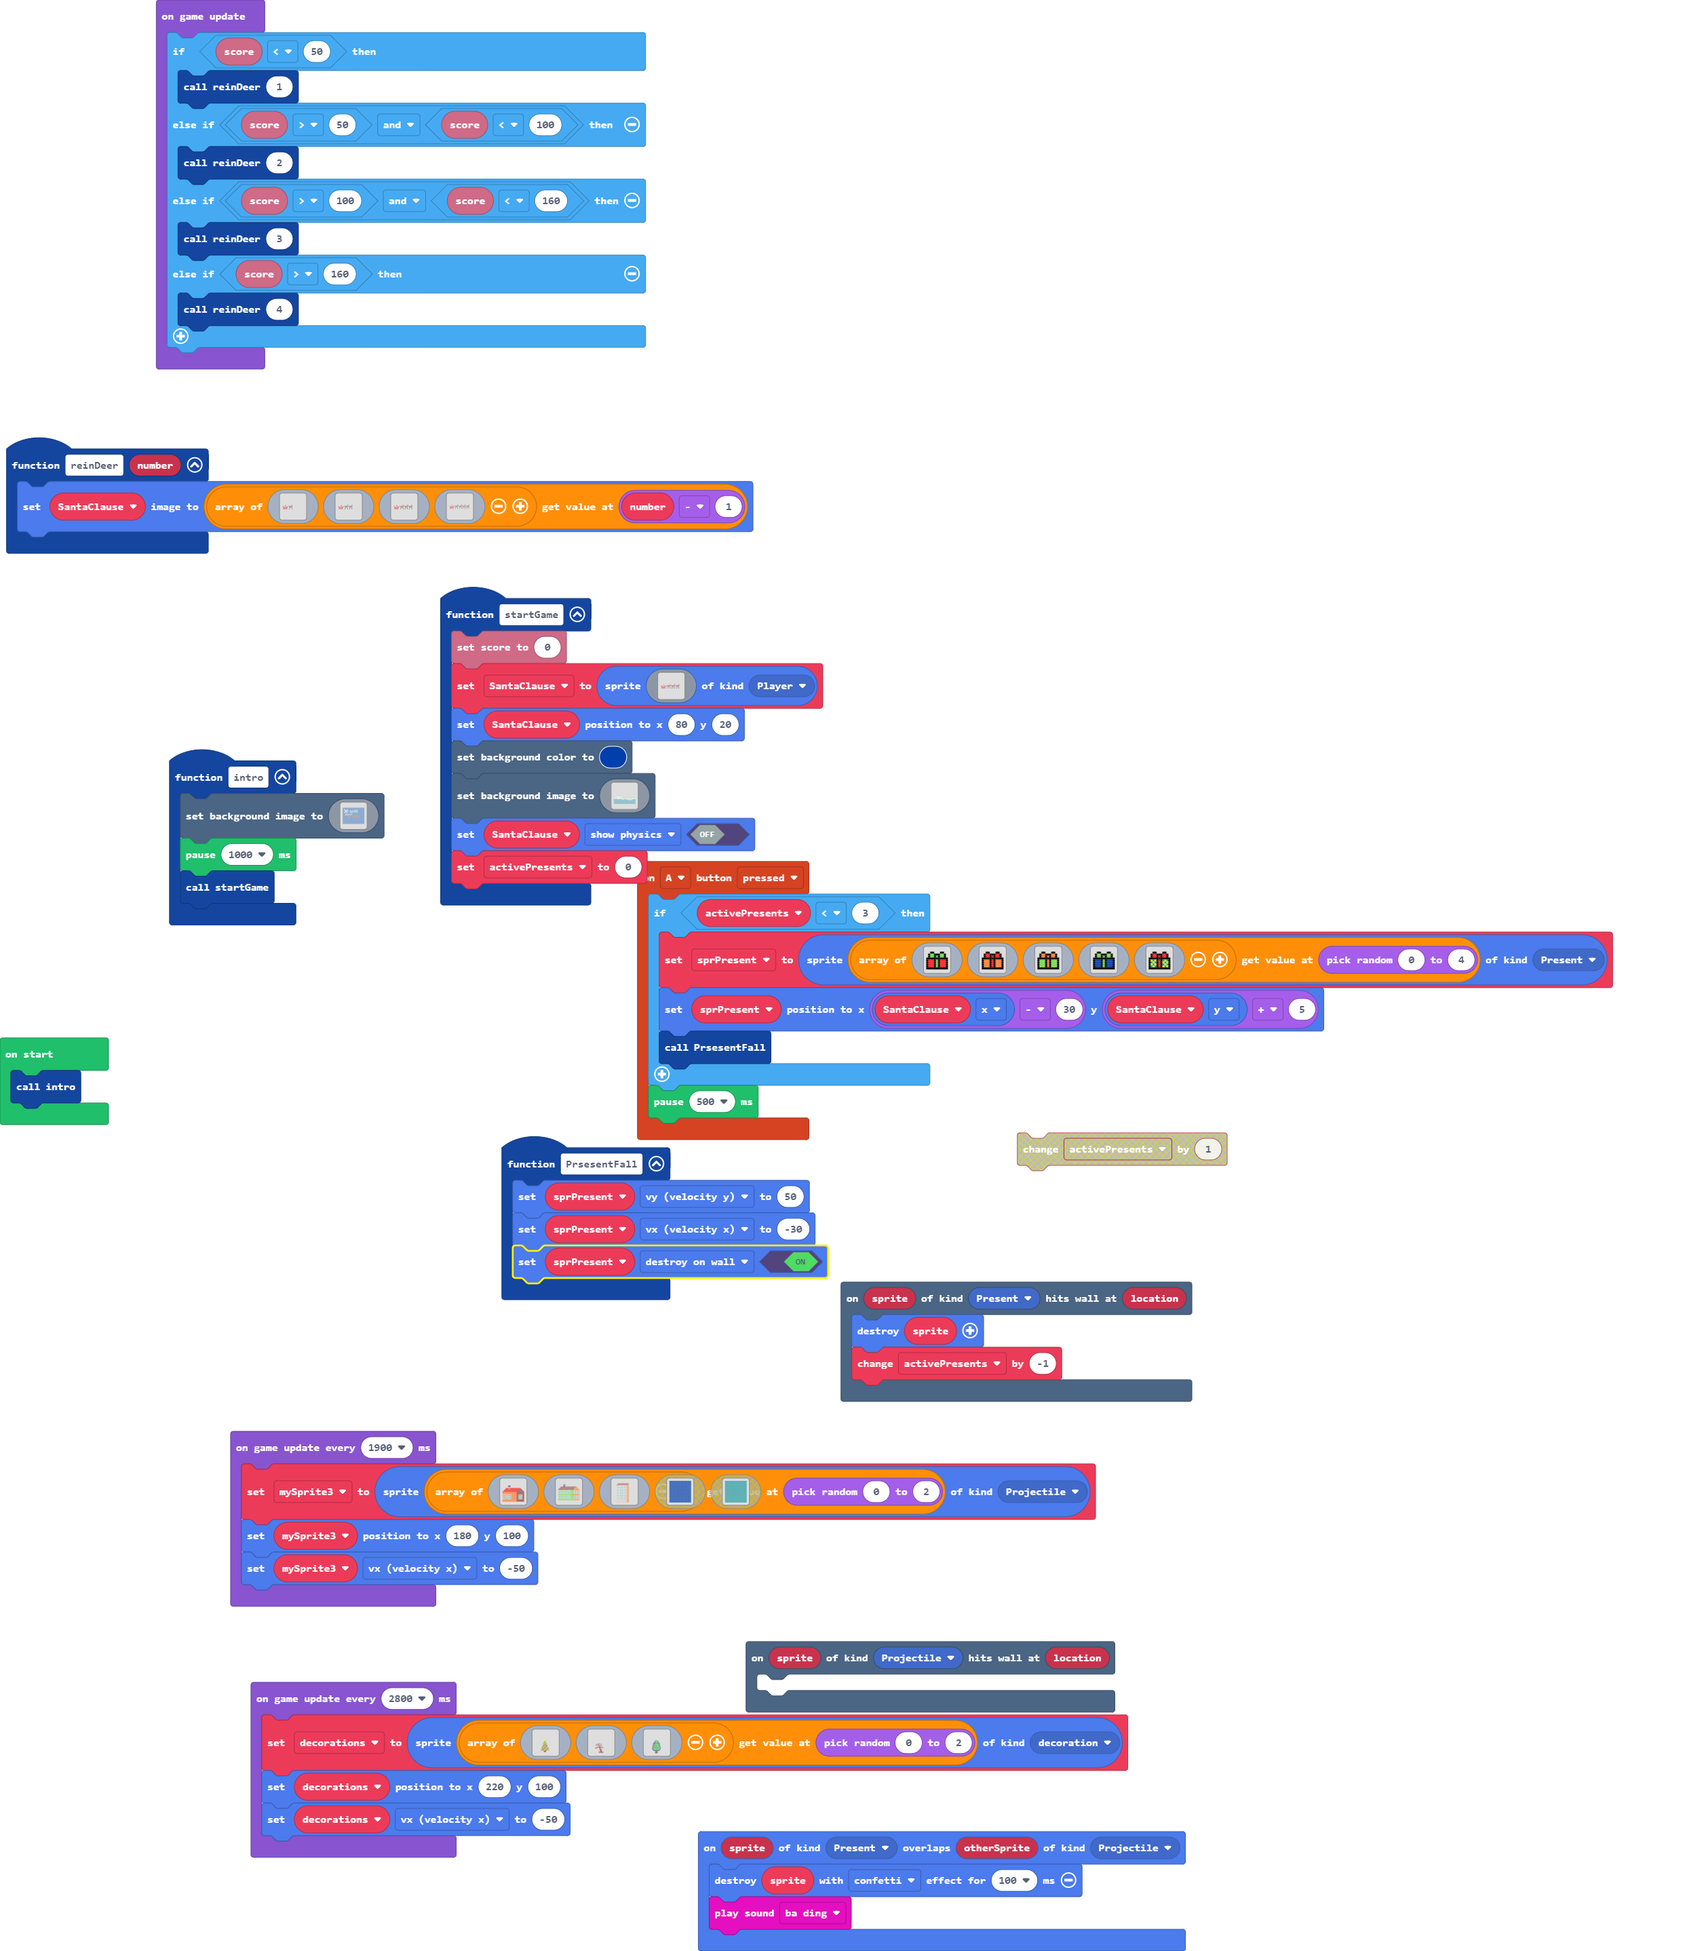
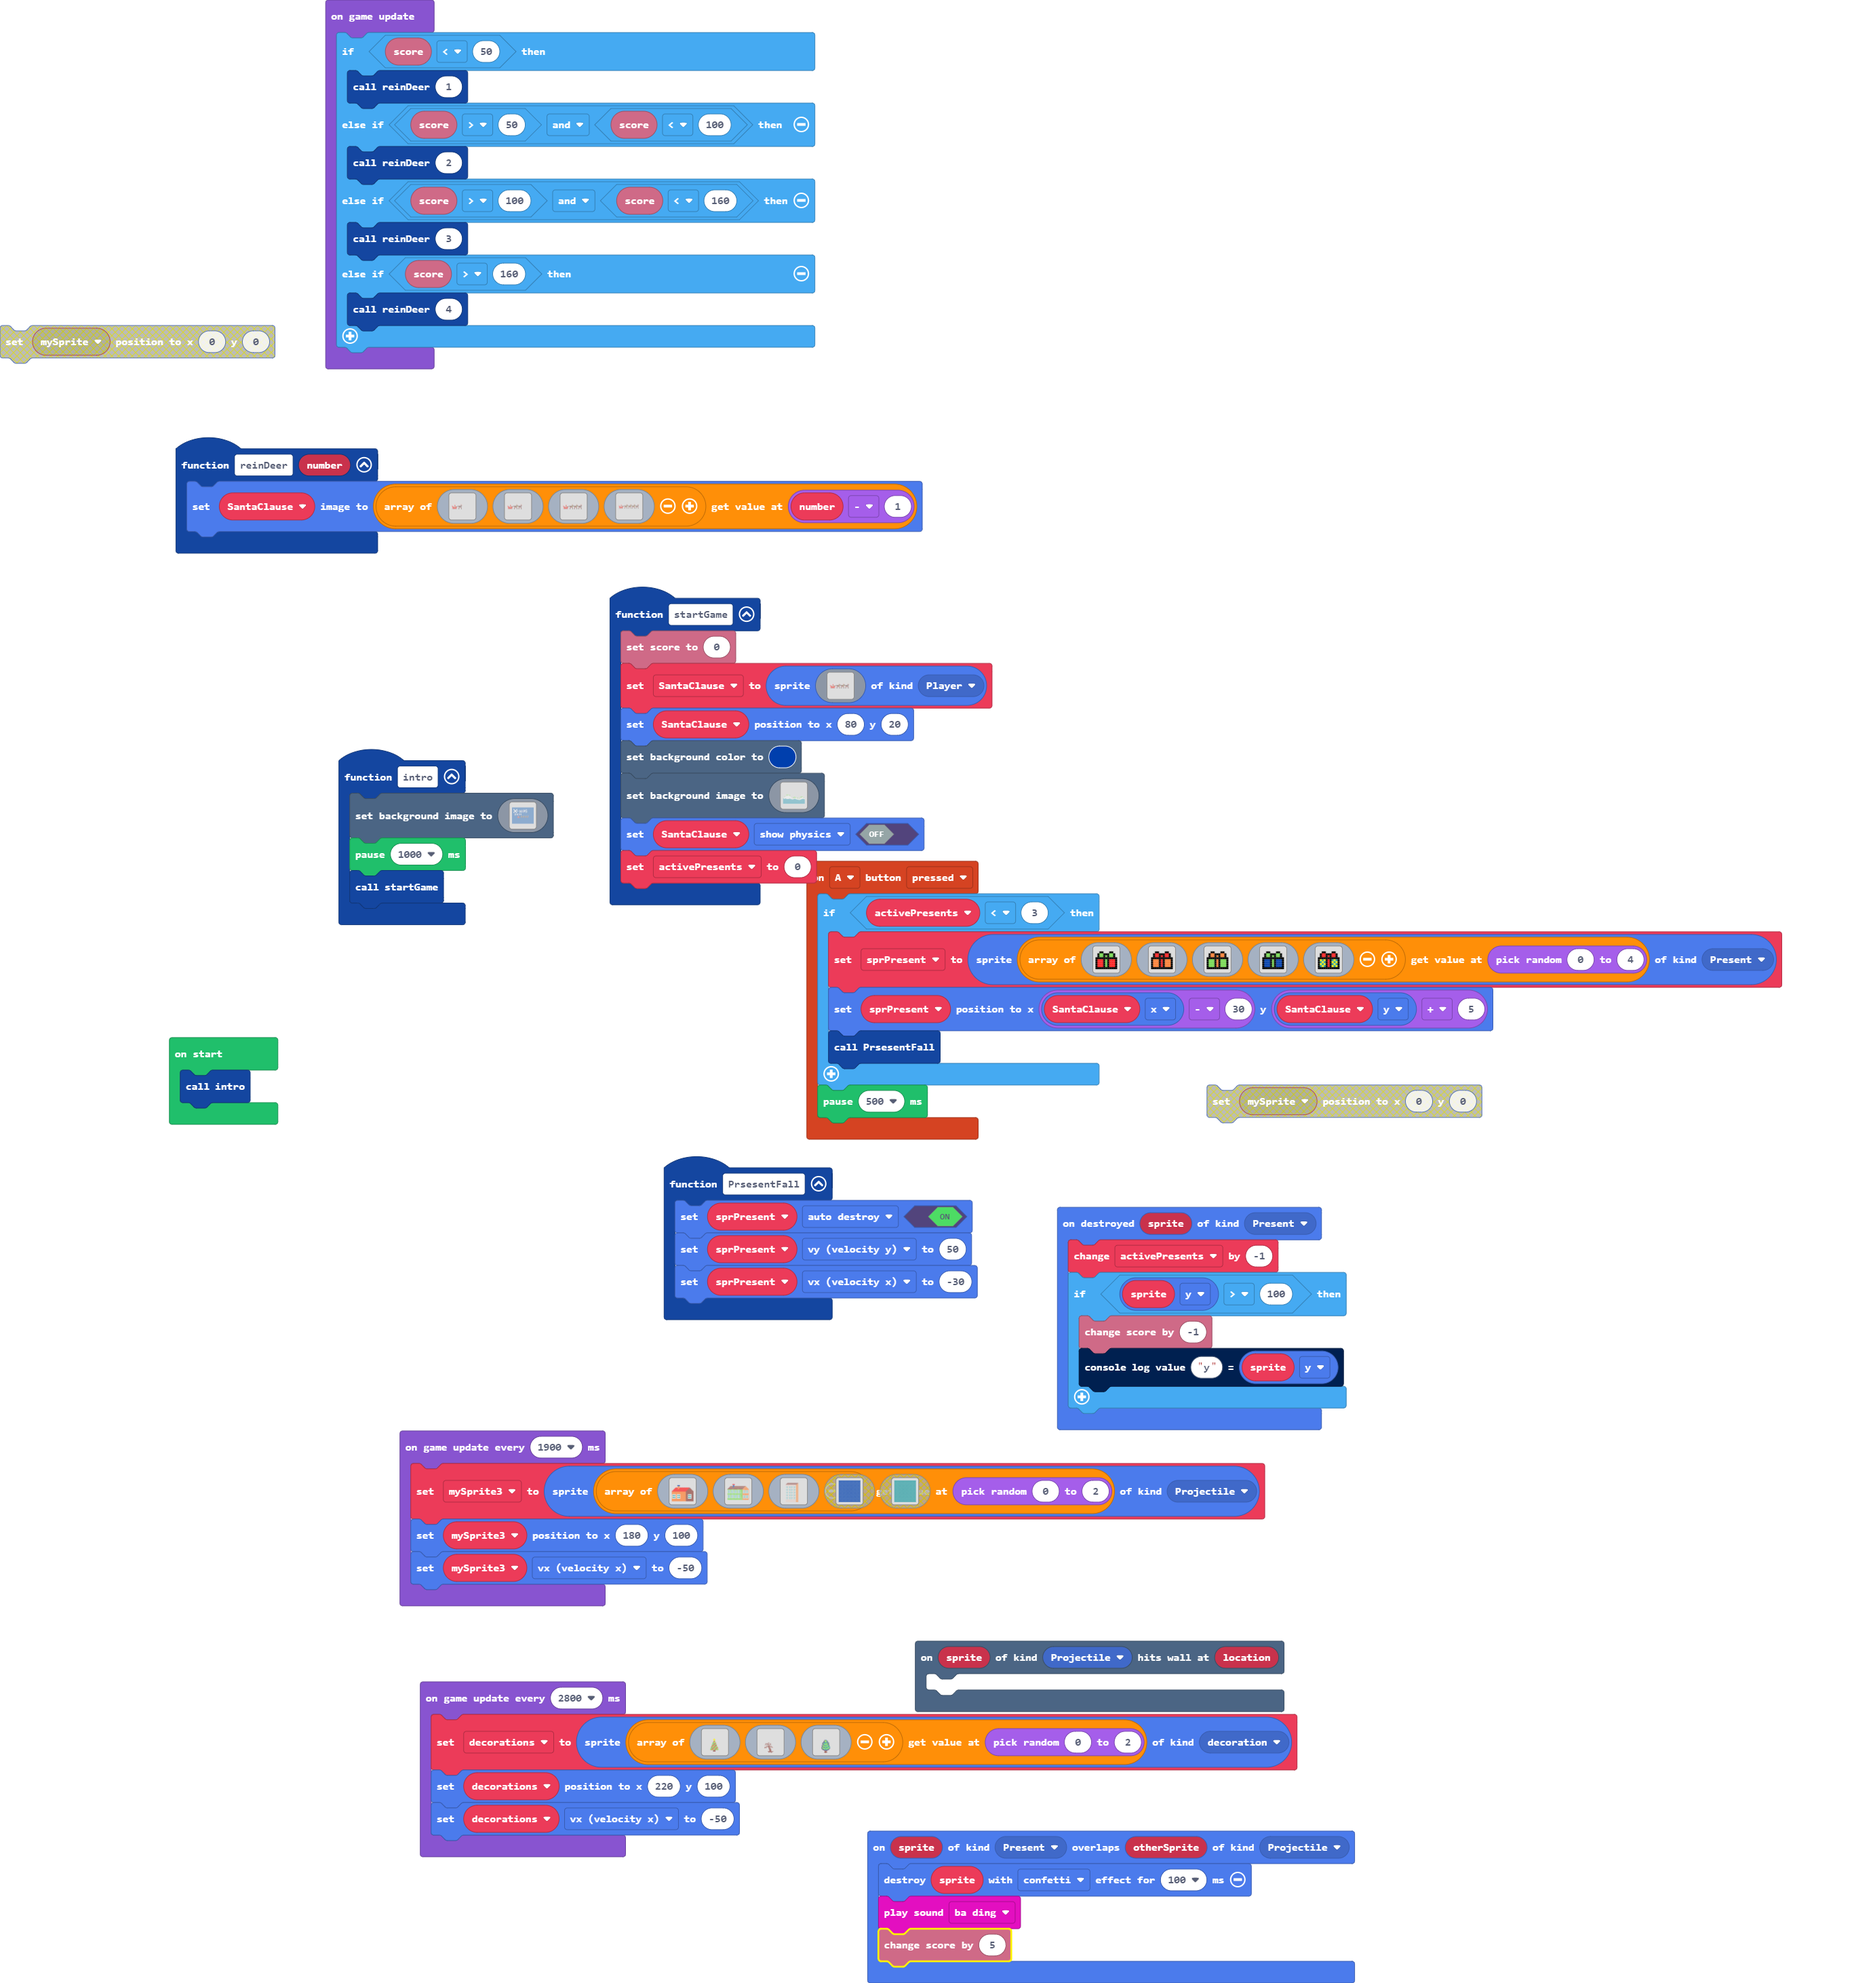
I made presents destroy on wall and every time you get a higher score more raindeer come.

Changed region(s): [[0.0, 0.0, 0.9621, 1.0], [0.6828, 0.9903, 0.7449, 1.0]]

diff --git a/main.ts b/main.ts
@@ -3,9 +3,9 @@ namespace SpriteKind {
     export const decoration = SpriteKind.create()
 }
 function PrsesentFall () {
+    sprPresent.setFlag(SpriteFlag.AutoDestroy, true)
     sprPresent.vy = 50
     sprPresent.vx = -30
-    sprPresent.setFlag(SpriteFlag.DestroyOnWall, true)
 }
 controller.A.onEvent(ControllerButtonEvent.Pressed, function () {
     if (activePresents < 3) {
@@ -347,6 +347,13 @@ function intro () {
     pause(1000)
     startGame()
 }
+sprites.onDestroyed(SpriteKind.Present, function (sprite) {
+    activePresents += -1
+    if (sprite.y > 100) {
+        info.changeScoreBy(-1)
+        console.logValue("y", sprite.y)
+    }
+})
 function reinDeer (number: number) {
     SantaClause.setImage([img`
         .................................d..............................................
@@ -437,13 +444,10 @@ function reinDeer (number: number) {
 sprites.onOverlap(SpriteKind.Present, SpriteKind.Projectile, function (sprite, otherSprite) {
     sprite.destroy(effects.confetti, 100)
     music.baDing.play()
+    info.changeScoreBy(5)
 })
 scene.onHitWall(SpriteKind.Projectile, function (sprite, location) {
 	
-})
-scene.onHitWall(SpriteKind.Present, function (sprite, location) {
-    sprite.destroy()
-    activePresents += -1
 })
 let decorations: Sprite = null
 let mySprite3: Sprite = null
